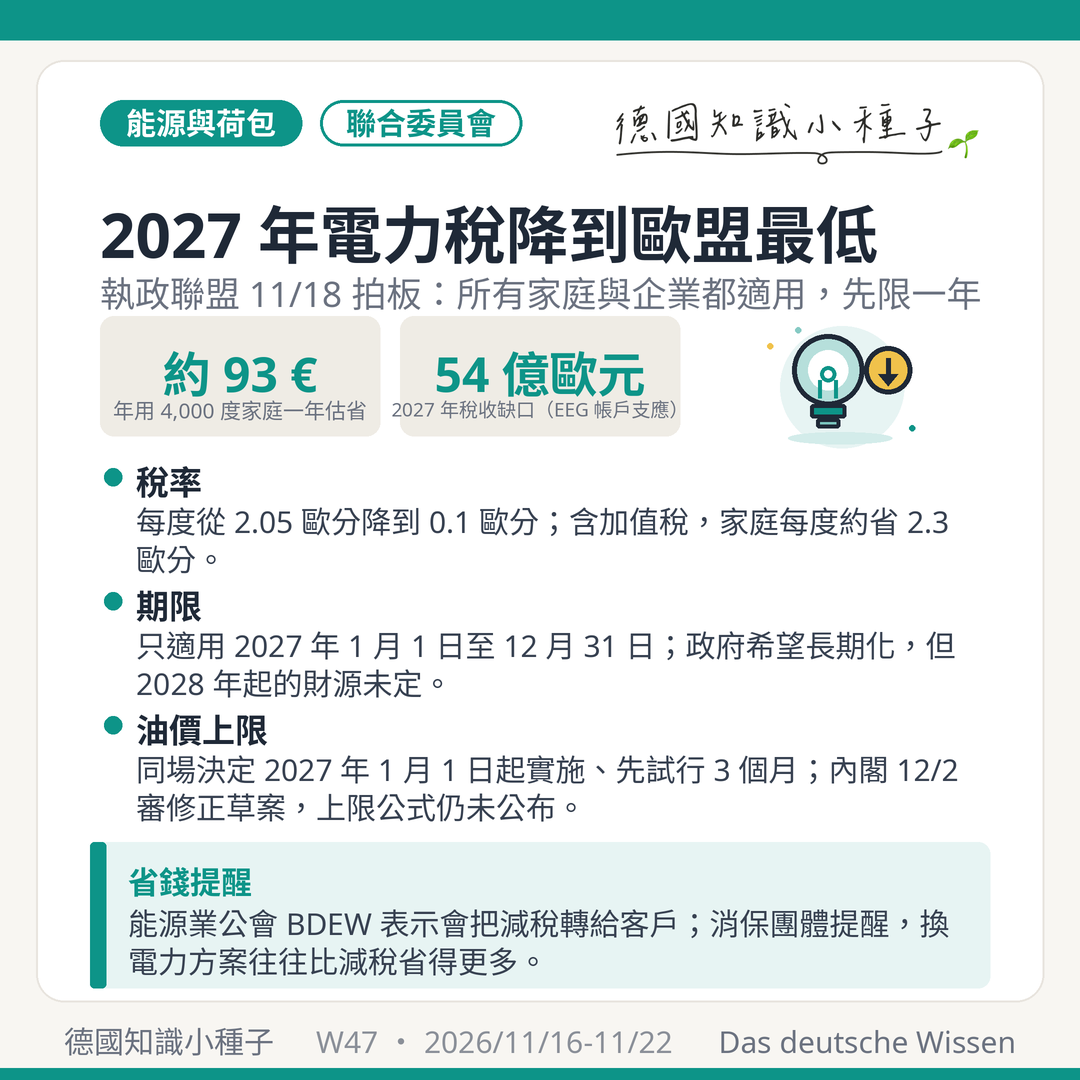
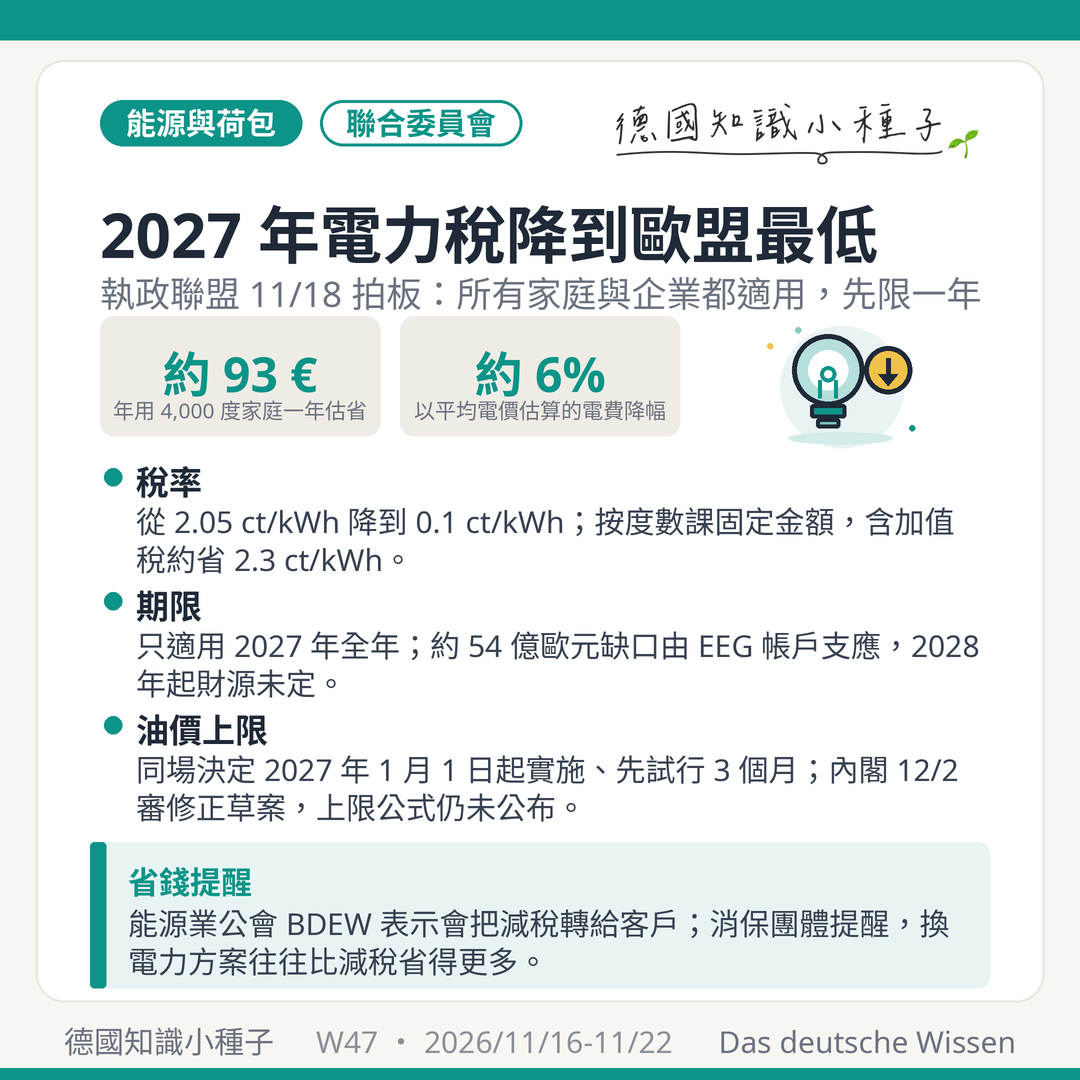
W47 電力稅題：單位改用 ct/kWh，加上以平均電價估算的電費降幅（約 6%）
- 「歐分」一律改寫為 ct/kWh（圖卡、data.js、FB／IG／Threads）
- 補充電力稅為從量稅：每度固定省 2.3 ct/kWh，與電價高低無關
- 以 BDEW 2026 年 10 月平均家庭電價 37.3 ct/kWh 估算電費約少 6%，並附 BDEW 來源
- 圖卡 1 stats 第二格改為「約 6%」，54 億歐元缺口移入 bullet；重產圖卡並重建靜態頁

Claude-Session: https://claude.ai/code/session_01KGMziPhZJ1M5nBAqmjDgqh

Changed region(s): [[0.1222, 0.4583, 0.8861, 0.55], [0.1222, 0.5806, 0.9167, 0.6417], [0.3667, 0.3056, 0.6417, 0.3972]]

diff --git a/posts/weekly-digest.html b/posts/weekly-digest.html
@@ -6,13 +6,13 @@
 <meta name="viewport" content="width=device-width, initial-scale=1.0" />
 <meta name="referrer" content="strict-origin-when-cross-origin" />
 <title>德國知識小種子週報精選 | 德國知識小種子</title>
-<meta name="description" content="先看荷包：執政聯盟 11 月 18 日在聯合委員會拍板，2027 年把電力稅降到歐盟最低標準，所有家庭與企業每度從 2.05 歐分降到 0.1 歐分，年用 4,000 度的家庭一年估省約 93 €，但只先保證一年；油價上限也確定 2027 年 1 月 1 日起試行 3 個月。同一天內閣通過勞動法套案，無理由定期契約最長" />
+<meta name="description" content="先看荷包：執政聯盟 11 月 18 日在聯合委員會拍板，2027 年把電力稅降到歐盟最低標準，所有家庭與企業從 2.05 ct/kWh 降到 0.1 ct/kWh，以平均電價估算電費約少 6%，年用 4,000 度的家庭一年估省約 93 €，但只先保證一年；油價上限也確定 2027 年 1 月 1 日起試行 3 個月。" />
 <meta name="robots" content="index, follow" />
 <link rel="canonical" href="https://taiwanese-in-germany.com/posts/weekly-digest.html" />
 <meta property="og:type" content="article" />
 <meta property="og:site_name" content="德國知識小種子 Das deutsche Wissen" />
 <meta property="og:title" content="德國知識小種子週報精選 | 德國知識小種子" />
-<meta property="og:description" content="先看荷包：執政聯盟 11 月 18 日在聯合委員會拍板，2027 年把電力稅降到歐盟最低標準，所有家庭與企業每度從 2.05 歐分降到 0.1 歐分，年用 4,000 度的家庭一年估省約 93 €，但只先保證一年；油價上限也確定 2027 年 1 月 1 日起試行 3 個月。同一天內閣通過勞動法套案，無理由定期契約最長" />
+<meta property="og:description" content="先看荷包：執政聯盟 11 月 18 日在聯合委員會拍板，2027 年把電力稅降到歐盟最低標準，所有家庭與企業從 2.05 ct/kWh 降到 0.1 ct/kWh，以平均電價估算電費約少 6%，年用 4,000 度的家庭一年估省約 93 €，但只先保證一年；油價上限也確定 2027 年 1 月 1 日起試行 3 個月。" />
 <meta property="og:url" content="https://taiwanese-in-germany.com/posts/weekly-digest.html" />
 <meta property="og:image" content="https://taiwanese-in-germany.com/assets/images/2026/weekly/W47_圖卡1_電力稅降到歐盟最低.png" />
 <meta property="og:locale" content="zh_TW" />
@@ -23,9 +23,9 @@
 <meta property="article:tag" content="時事" />
 <meta name="twitter:card" content="summary_large_image" />
 <meta name="twitter:title" content="德國知識小種子週報精選 | 德國知識小種子" />
-<meta name="twitter:description" content="先看荷包：執政聯盟 11 月 18 日在聯合委員會拍板，2027 年把電力稅降到歐盟最低標準，所有家庭與企業每度從 2.05 歐分降到 0.1 歐分，年用 4,000 度的家庭一年估省約 93 €，但只先保證一年；油價上限也確定 2027 年 1 月 1 日起試行 3 個月。同一天內閣通過勞動法套案，無理由定期契約最長" />
+<meta name="twitter:description" content="先看荷包：執政聯盟 11 月 18 日在聯合委員會拍板，2027 年把電力稅降到歐盟最低標準，所有家庭與企業從 2.05 ct/kWh 降到 0.1 ct/kWh，以平均電價估算電費約少 6%，年用 4,000 度的家庭一年估省約 93 €，但只先保證一年；油價上限也確定 2027 年 1 月 1 日起試行 3 個月。" />
 <meta name="twitter:image" content="https://taiwanese-in-germany.com/assets/images/2026/weekly/W47_圖卡1_電力稅降到歐盟最低.png" />
-<script type="application/ld+json">{"@context":"https://schema.org","@type":"BlogPosting","headline":"德國知識小種子週報精選","description":"先看荷包：執政聯盟 11 月 18 日在聯合委員會拍板，2027 年把電力稅降到歐盟最低標準，所有家庭與企業每度從 2.05 歐分降到 0.1 歐分，年用 4,000 度的家庭一年估省約 93 €，但只先保證一年；油價上限也確定 2027 年 1 月 1 日起試行 3 個月。同一天內閣通過勞動法套案，無理由定期契約最長","image":"https://taiwanese-in-germany.com/assets/images/2026/weekly/W47_圖卡1_電力稅降到歐盟最低.png","url":"https://taiwanese-in-germany.com/posts/weekly-digest.html","datePublished":"2026-11-22","dateModified":"2026-11-22","author":{"@type":"Person","name":"德國知識小種子","url":"https://taiwanese-in-germany.com"},"publisher":{"@type":"Organization","name":"德國知識小種子 Das deutsche Wissen","url":"https://taiwanese-in-germany.com","logo":{"@type":"ImageObject","url":"https://taiwanese-in-germany.com/assets/logo.png"}},"mainEntityOfPage":{"@type":"WebPage","@id":"https://taiwanese-in-germany.com/posts/weekly-digest.html"},"inLanguage":"zh-TW","keywords":"週報, 德國政策, 時事"}</script>
+<script type="application/ld+json">{"@context":"https://schema.org","@type":"BlogPosting","headline":"德國知識小種子週報精選","description":"先看荷包：執政聯盟 11 月 18 日在聯合委員會拍板，2027 年把電力稅降到歐盟最低標準，所有家庭與企業從 2.05 ct/kWh 降到 0.1 ct/kWh，以平均電價估算電費約少 6%，年用 4,000 度的家庭一年估省約 93 €，但只先保證一年；油價上限也確定 2027 年 1 月 1 日起試行 3 個月。","image":"https://taiwanese-in-germany.com/assets/images/2026/weekly/W47_圖卡1_電力稅降到歐盟最低.png","url":"https://taiwanese-in-germany.com/posts/weekly-digest.html","datePublished":"2026-11-22","dateModified":"2026-11-22","author":{"@type":"Person","name":"德國知識小種子","url":"https://taiwanese-in-germany.com"},"publisher":{"@type":"Organization","name":"德國知識小種子 Das deutsche Wissen","url":"https://taiwanese-in-germany.com","logo":{"@type":"ImageObject","url":"https://taiwanese-in-germany.com/assets/logo.png"}},"mainEntityOfPage":{"@type":"WebPage","@id":"https://taiwanese-in-germany.com/posts/weekly-digest.html"},"inLanguage":"zh-TW","keywords":"週報, 德國政策, 時事"}</script>
 <script type="application/ld+json">{"@context":"https://schema.org","@type":"BreadcrumbList","itemListElement":[{"@type":"ListItem","position":1,"name":"首頁","item":"https://taiwanese-in-germany.com/"},{"@type":"ListItem","position":2,"name":"德國時事","item":"https://taiwanese-in-germany.com/category.html?cat=%E5%BE%B7%E5%9C%8B%E6%99%82%E4%BA%8B"},{"@type":"ListItem","position":3,"name":"德國知識小種子週報精選","item":"https://taiwanese-in-germany.com/posts/weekly-digest.html"}]}</script>
 <link rel="stylesheet" href="/css/style.css" />
 <link rel="alternate" type="application/rss+xml" title="德國知識小種子 RSS" href="/feed.xml" />
@@ -132,14 +132,14 @@
     <div class="post-header__meta">
       <span>2026年11月22日 發布</span>
       <span class="post-header__sep">·</span>
-      <span>578 分鐘閱讀</span>
+      <span>580 分鐘閱讀</span>
     </div>
     <hr class="post-header__divider" />
   </header>
   <article class="post-content"><nav class="post-toc" aria-label="本篇目錄">
   <p class="post-toc__title">快速跳轉</p>
   <ul>
-    <li><a href="#nov16-22">11月16日–22日：2027 年電力稅降到歐盟最低（11/18 聯合委員會拍板，所有家庭每度從 2.05 歐分降到 0.1 歐分、先限一年，4,000 度家庭估省約 93 €；油價上限 2027/1/1 起試行 3 個月）、無理由定期契約最長延到 4 年（內閣 11/18 通過勞動法套案，可續約 6 次、只適用 2030 年底前簽訂的契約，年薪逾約 18 萬歐元者解僱保護放寬）、年金 2027 年 7 月估漲 4.1%（退休保險報告過內閣，保費率 2027 年維持 18.6%、2028 年估升到 19.7–19.8%）、金屬業全天罷工開打而福斯 11/24 開談（ZF Koblenz 廠 11/19 夜班起停工，福斯 10 項企業協約 12/31 失效、涵蓋約 13 萬人）、政府要德鐵 2029 年準點率回到七成（DB InfraGO 履約協議草案，10 月長途準點率 56.2%、71 項指標與主管獎金掛鉤）</a></li>
+    <li><a href="#nov16-22">11月16日–22日：2027 年電力稅降到歐盟最低（11/18 聯合委員會拍板，所有家庭從 2.05 ct/kWh 降到 0.1 ct/kWh、先限一年，電費約少 6%、4,000 度家庭估省約 93 €；油價上限 2027/1/1 起試行 3 個月）、無理由定期契約最長延到 4 年（內閣 11/18 通過勞動法套案，可續約 6 次、只適用 2030 年底前簽訂的契約，年薪逾約 18 萬歐元者解僱保護放寬）、年金 2027 年 7 月估漲 4.1%（退休保險報告過內閣，保費率 2027 年維持 18.6%、2028 年估升到 19.7–19.8%）、金屬業全天罷工開打而福斯 11/24 開談（ZF Koblenz 廠 11/19 夜班起停工，福斯 10 項企業協約 12/31 失效、涵蓋約 13 萬人）、政府要德鐵 2029 年準點率回到七成（DB InfraGO 履約協議草案，10 月長途準點率 56.2%、71 項指標與主管獎金掛鉤）</a></li>
     <li><a href="#nov9-15">11月9日–15日：政府經濟顧問建議取消「63 歲退休」（經濟專家委員會年度報告，同時把 2026 年成長預測從 0.5% 上修至 1.3%、2027 年 1.0%，並建議撤回母親年金擴大）、瓦斯費 2027 年 10 月起多收儲備附加費（國家天然氣戰略儲備過內閣、目標 24 TWh，一般家庭每年估多付約 4–7 €）、車廠同步縮手（賓士凍結在德投資並不排除關閉兩座廠、福斯喊停 Gamechanger 且累計減少職位逾 47,000 個、Audi 啟動壞天氣條款重談、BMW 二度下修財測）、IG Metall 決議發動 24 小時警告罷工（總部 11/12 全票通過、2018 年以來首次）、國防軍暗數研究（72% 女性軍人曾遭言語性騷擾、34 項行動計畫）</a></li>
     <li><a href="#nov2-8">11月2日–8日：住址登記全面上網（內閣 11/4 通過行政命令、預計 12/1 生效，所有登記機關須開放線上遷入與遷居登記，已接入約 3,800 個機關、需 BundID 與線上身分功能）、Schaeffler 再減 2,660 個職位並關閉德國四處據點（歐洲共減 3,460 個職位、原則上不做經營性解僱、2030 年起每年省 3 億歐元、董事會自減 10% 薪資，汽車業就業 69.15 萬人創 2005 年來新低）、油價上限法草案（須連三週高於其他歐盟國家平均 5 個百分點以上才啟動、每次最長 3 個月，bft 與 DGB 都批評；燃油稅減免 12/31 到期）、駕照改革通過（平均約 3,400 €，理論課可線上、特殊路況課不再規定 12 趟、親友可陪練，主要新規 2027/7/1 生效）、西巴爾幹工作名額減半（每年 5 萬降到 2.5 萬、2027 年起適用，營建業估少約 9,000 人）</a></li>
     <li><a href="#oct26-nov1">10月26日–11月1日：十一月新制（11/1 起歐盟外小包裹在 3 € 定額關稅之外每種商品再加收 2 € 處理費、11/20 起「先買後付」與 200 € 以下小額貸款須審查信用、德鐵家庭票常態化最多 5 人 IC／ICE 來回 99.99 €、汽車保險換約解約信須 11/30 前送達）、金屬電機業 11/1 起可發動警告性罷工（約 370 萬名員工，資方 10/27 首度出價 2027 年一次性給付與 2028 年 7 月調薪 1.3%，IG Metall 要求 12 個月加薪 5%）、賓士下修財測（第三季中國銷量年減 31%、轎車利潤率目標從 3–5% 降到 2–3%，12 月起再以資遣方案縮減數千個行政職位）、德日聯合聲明重申台海和平穩定（Merz 10/26–30 訪新加坡、日本、南韓，與高市早苗簽署關鍵原物料意向書；Steinmeier 同週國事訪問中國、促習近平縮減貿易順差）、景氣回溫（十月通膨初值降到 2.8%、第三季 GDP 季增 0.2%、ifo 景氣指數連升第六個月到 90.2 點）、核廢料最終處置場候選範圍縮到國土 5% 以下（BGE 10/27 公布、5 個邦完全出局、2027 年底提出候選區域）</a></li>
@@ -175,18 +175,19 @@
   </ul>
 </nav>
 
-<h2 id="nov16-22">11月16日–22日：2027 年電力稅降到歐盟最低（執政聯盟 11/18 聯合委員會拍板，所有家庭與企業每度從 2.05 歐分降到 0.1 歐分、先限 2027 年一年，年用 4,000 度家庭估省約 93 €，54 億歐元缺口由 EEG 帳戶支應；油價上限同步定在 2027 年 1 月 1 日起試行 3 個月）、無理由定期契約最長延到 4 年（內閣 11/18 通過勞動法套案，期限內可續約 6 次、只適用 2030 年底前簽訂的契約，年薪逾約 18 萬歐元者解僱保護放寬）、年金 2027 年 7 月估漲 4.1%（2026 年退休保險報告 11/18 過內閣，保費率 2027 年維持 18.6%、2028 年估升到 19.7–19.8%）、金屬業全天罷工開打而福斯 11/24 開談（ZF Koblenz 廠 11/19 夜班起停工 24 小時，福斯終止的 10 項企業協約 12/31 失效、涵蓋約 13 萬名員工）、政府要德鐵 2029 年準點率回到七成（交通部長 Bilger 11/18 提出路網公司 DB InfraGO 履約協議草案，10 月長途列車準點率僅 56.2%、主管獎金掛鉤 71 項指標）</h2>
+<h2 id="nov16-22">11月16日–22日：2027 年電力稅降到歐盟最低（執政聯盟 11/18 聯合委員會拍板，所有家庭與企業從 2.05 ct/kWh 降到 0.1 ct/kWh、先限 2027 年一年，以平均電價估算電費約少 6%、年用 4,000 度家庭估省約 93 €，54 億歐元缺口由 EEG 帳戶支應；油價上限同步定在 2027 年 1 月 1 日起試行 3 個月）、無理由定期契約最長延到 4 年（內閣 11/18 通過勞動法套案，期限內可續約 6 次、只適用 2030 年底前簽訂的契約，年薪逾約 18 萬歐元者解僱保護放寬）、年金 2027 年 7 月估漲 4.1%（2026 年退休保險報告 11/18 過內閣，保費率 2027 年維持 18.6%、2028 年估升到 19.7–19.8%）、金屬業全天罷工開打而福斯 11/24 開談（ZF Koblenz 廠 11/19 夜班起停工 24 小時，福斯終止的 10 項企業協約 12/31 失效、涵蓋約 13 萬名員工）、政府要德鐵 2029 年準點率回到七成（交通部長 Bilger 11/18 提出路網公司 DB InfraGO 履約協議草案，10 月長途列車準點率僅 56.2%、主管獎金掛鉤 71 項指標）</h2>
 <p>這週的焦點集中在 <strong>11 月 18 日</strong>這一天：執政的聯盟黨（CDU/CSU）與 SPD 高層在<strong>聯合委員會（Koalitionsausschuss）</strong>徹夜協商八小時以上，決定 2027 年把<strong>電力稅降到歐盟最低標準</strong>、所有家庭都適用，並敲定油價上限的上路日期；同一天上午，聯邦內閣也通過<strong>勞動法套案</strong>（無理由定期契約最長延到 4 年）與<strong>2026 年退休保險報告</strong>（年金明年 7 月估漲 4.1%）。<strong>汽車與金屬業</strong>方面，IG Metall 的 24 小時警告罷工從 11 月 19 日晚間正式開打，福斯（Volkswagen）企業協約的談判也將在 11 月 24 日登場。最後，交通部提出與德鐵路網公司的<strong>履約協議草案</strong>，要求 2029 年長途列車準點率回到七成。</p>
 
-<img src="/assets/images/2026/weekly/W47_圖卡1_電力稅降到歐盟最低.png" alt="德國執政聯盟聯合委員會Koalitionsausschuss 2026年11月18日決議 電力稅Stromsteuer 2027年1月1日至12月31日降到歐盟最低標準 每度從2.05歐分降到0.1歐分 含加值稅家庭每度約省2.3歐分 Verivox估年用4000度家庭每月省約7.75歐元一年約93歐元 稅收缺口54億歐元由再生能源EEG帳戶盈餘支應 油價上限Spritpreisdeckel 2027年1月1日起試行3個月 內閣12月2日審修正草案 能源業公會BDEW表示轉嫁客戶">
+<img src="/assets/images/2026/weekly/W47_圖卡1_電力稅降到歐盟最低.png" alt="德國執政聯盟聯合委員會Koalitionsausschuss 2026年11月18日決議 電力稅Stromsteuer 2027年1月1日至12月31日降到歐盟最低標準 從2.05 ct/kWh降到0.1 ct/kWh 含加值稅家庭約省2.3 ct/kWh 以BDEW 2026年平均家庭電價37.3 ct/kWh估算電費約少6% Verivox估年用4000度家庭每月省約7.75歐元一年約93歐元 稅收缺口54億歐元由再生能源EEG帳戶盈餘支應 油價上限Spritpreisdeckel 2027年1月1日起試行3個月 內閣12月2日審修正草案 能源業公會BDEW表示轉嫁客戶">
 <h3>2027 年電力稅降到歐盟最低：所有家庭適用，4,000 度家庭一年估省約 93 €</h3>
-<p><strong>決議內容：</strong>聯盟黨與 SPD 高層 <strong>11 月 17 日晚間至 18 日凌晨</strong>在聯合委員會協商八個多小時，結論是 <strong>2027 年 1 月 1 日至 12 月 31 日</strong>，把<strong>電力稅（Stromsteuer）</strong>降到歐盟允許的最低標準：私人家庭與目前尚未享有優惠的企業，稅率從<strong>每度 2.05 歐分降到 0.1 歐分</strong>。製造業與農林業早在 2026 年就已適用低稅率，這次等於把優惠擴大到所有用電戶。據報導，這是總理 Merz 力推的結果；聯合政府 2025 年組閣時曾承諾為所有人降電力稅，後來因財源不足只先給企業，被批評「跳票」。</p>
-<p><strong>能省多少：</strong>依《每日鏡報》（Tagesspiegel）試算，家庭每度省 1.95 歐分，<strong>含 19% 加值稅約省 2.3 歐分</strong>；年用 2,500 度的兩人家庭一年約省 60 €。比價平台 Verivox 估計，年用 <strong>4,000 度</strong>的家庭若業者全額轉嫁，<strong>每月約省 7.75 €、一年約 93 €</strong>。能源與水業公會 <strong>BDEW</strong> 已表示會把減稅轉給客戶。</p>
+<p><strong>決議內容：</strong>聯盟黨與 SPD 高層 <strong>11 月 17 日晚間至 18 日凌晨</strong>在聯合委員會協商八個多小時，結論是 <strong>2027 年 1 月 1 日至 12 月 31 日</strong>，把<strong>電力稅（Stromsteuer）</strong>降到歐盟允許的最低標準：私人家庭與目前尚未享有優惠的企業，稅率從 <strong>2.05 ct/kWh 降到 0.1 ct/kWh</strong>。製造業與農林業早在 2026 年就已適用低稅率，這次等於把優惠擴大到所有用電戶。據報導，這是總理 Merz 力推的結果；聯合政府 2025 年組閣時曾承諾為所有人降電力稅，後來因財源不足只先給企業，被批評「跳票」。</p>
+<p><strong>能省多少：</strong>依《每日鏡報》（Tagesspiegel）試算，家庭省 1.95 ct/kWh，<strong>含 19% 加值稅約省 2.3 ct/kWh</strong>；年用 2,500 度的兩人家庭一年約省 60 €。比價平台 Verivox 估計，年用 <strong>4,000 度</strong>的家庭若業者全額轉嫁，<strong>每月約省 7.75 €、一年約 93 €</strong>。能源與水業公會 <strong>BDEW</strong> 已表示會把減稅轉給客戶。</p>
+<p><strong>換算成比例：</strong>電力稅是<strong>按度數課固定金額</strong>（從量稅），不是照電價抽百分比，所以不論電價高低，每度省下的都是同樣的 2.3 ct/kWh。依 BDEW 2026 年 10 月的電價分析，家庭平均電價為 <strong>37.3 ct/kWh</strong>（以年用 3,500 度計，已含基本費攤提），換算下來<strong>電費約少 6%</strong>（2.3 ÷ 37.3 ≈ 6.2%）；年用 3,500 度的家庭，一年電費約 1,306 €，可省約 81 €。電價越高的方案，降幅比例越小，例如基本供應（Grundversorgung）每度約 40 ct/kWh 的話約少 5.7%；想知道自己能省幾 %，用 2.3 除以帳單上的每度單價（Arbeitspreis 加上基本費攤提）即可。</p>
 <p><strong>錢從哪來：</strong>降稅造成 2027 年約 <strong>54 億歐元</strong>的稅收缺口，執政聯盟打算以再生能源補助帳戶（<strong>EEG 帳戶</strong>）預期的盈餘支應；若不夠，再另訂撙節方案。聯邦議院預算委員會下週將召開特別會議。執政聯盟表示希望長期降稅，但 <strong>2028 年以後的財源仍未定</strong>，法案也還沒送進國會。</p>
 <p><strong>油價上限同步定案：</strong>本站 <a href="#nov2-8">W45</a> 報導過的<strong>油價上限（Spritpreisdeckel）</strong>，這次決定 <strong>2027 年 1 月 1 日起</strong>實施、先試行 <strong>3 個月</strong>，可延長；內閣將在 <strong>12 月 2 日</strong>通過修正後的法案與行政命令。政府參考比利時與盧森堡的模式，以法定上限限制業者的利潤空間，而非訂死單一價格，但具體上限公式至今還沒公布。</p>
 <p><strong>各方觀點：</strong>聯邦消費者中心總會（vzbv）主席 Ramona Pop 肯定執政聯盟兌現承諾；綠黨（Grüne）黨主席 Franziska Brantner 則批評只降一年「沒有給出規劃上的確定性」，綠黨聯邦議院黨團共同主席 Britta Haßelmann 稱這是「替總理保住面子的權宜之計」；綠黨與左翼黨（Die Linke）都認為油價上限不夠，主張改向石油公司課徵超額利潤稅。SPD 預算專家 Thorsten Rudolph 稱減輕負擔是好事，但希望再大膽一點。</p>
 <p><strong>省錢提醒：</strong>減稅一年約省幾十到一百歐元；消保團體提醒，<strong>比價換約</strong>往往省得更多。許多基本供應業者明年 1 月調價，收到調價通知時可行使特別終止權改換方案。</p>
-<p class="post-sources">📚 來源：<a href="https://www.handelsblatt.com/politik/deutschland/koalitionsausschuss-stromsteuer-senkung-und-spritpreisdeckel-kommen-2027/100270780.html" target="_blank" rel="noopener noreferrer">Handelsblatt：Stromsteuer-Senkung und Spritpreisdeckel kommen 2027</a> · <a href="https://www.tagesspiegel.de/politik/strom-gunstiger-sprit-nicht-noch-teurer-wie-sich-die-einigung-der-koalition-finanziell-auswirkt-16297250.html" target="_blank" rel="noopener noreferrer">Tagesspiegel：Wer von der Einigung der Koalition finanziell profitiert</a> · <a href="https://www.t-online.de/nachrichten/deutschland/innenpolitik/id_101534002/stromsteuer-koalition-beschliesst-senkung-mit-einem-haken.html" target="_blank" rel="noopener noreferrer">t-online：Koalition beschließt Senkung – mit einem Haken</a> · <a href="https://www.t-online.de/nachrichten/deutschland/innenpolitik/id_101534526/stromsteuer-und-spritpreisdeckel-streit-in-der-koalition-trotz-einigung.html" target="_blank" rel="noopener noreferrer">t-online：Streit in der Koalition trotz Einigung</a> · <a href="https://taz.de/Einigung-im-Koalitionsausschuss/!6231102/" target="_blank" rel="noopener noreferrer">taz：Linke Tasche, rechte Tasche</a> · <a href="https://www.tagesspiegel.de/politik/keine-entlastung-bei-stromsteuer-kritiker-werfen-schwarz-rot-wortbruch-vor-13917301.html" target="_blank" rel="noopener noreferrer">Tagesspiegel：Kritiker werfen Schwarz-Rot „Wortbruch" vor（2025）</a> · <a href="https://www.adac.de/verkehr/tanken-kraftstoff-antrieb/benzin-und-diesel/spritpreisdeckel/" target="_blank" rel="noopener noreferrer">ADAC：Spritpreisdeckel ab 2027</a></p>
+<p class="post-sources">📚 來源：<a href="https://www.handelsblatt.com/politik/deutschland/koalitionsausschuss-stromsteuer-senkung-und-spritpreisdeckel-kommen-2027/100270780.html" target="_blank" rel="noopener noreferrer">Handelsblatt：Stromsteuer-Senkung und Spritpreisdeckel kommen 2027</a> · <a href="https://www.tagesspiegel.de/politik/strom-gunstiger-sprit-nicht-noch-teurer-wie-sich-die-einigung-der-koalition-finanziell-auswirkt-16297250.html" target="_blank" rel="noopener noreferrer">Tagesspiegel：Wer von der Einigung der Koalition finanziell profitiert</a> · <a href="https://www.t-online.de/nachrichten/deutschland/innenpolitik/id_101534002/stromsteuer-koalition-beschliesst-senkung-mit-einem-haken.html" target="_blank" rel="noopener noreferrer">t-online：Koalition beschließt Senkung – mit einem Haken</a> · <a href="https://www.t-online.de/nachrichten/deutschland/innenpolitik/id_101534526/stromsteuer-und-spritpreisdeckel-streit-in-der-koalition-trotz-einigung.html" target="_blank" rel="noopener noreferrer">t-online：Streit in der Koalition trotz Einigung</a> · <a href="https://taz.de/Einigung-im-Koalitionsausschuss/!6231102/" target="_blank" rel="noopener noreferrer">taz：Linke Tasche, rechte Tasche</a> · <a href="https://www.tagesspiegel.de/politik/keine-entlastung-bei-stromsteuer-kritiker-werfen-schwarz-rot-wortbruch-vor-13917301.html" target="_blank" rel="noopener noreferrer">Tagesspiegel：Kritiker werfen Schwarz-Rot „Wortbruch" vor（2025）</a> · <a href="https://www.adac.de/verkehr/tanken-kraftstoff-antrieb/benzin-und-diesel/spritpreisdeckel/" target="_blank" rel="noopener noreferrer">ADAC：Spritpreisdeckel ab 2027</a> · <a href="https://www.bdew.de/presse/pressemappen/strompreis/" target="_blank" rel="noopener noreferrer">BDEW：Pressematerialien Strompreis（2026 年平均家庭電價）</a></p>
 
 <img src="/assets/images/2026/weekly/W47_圖卡2_定期契約延到四年.png" alt="德國聯邦內閣2026年11月18日通過勞動部長Alexander Schweitzer勞動法套案Arbeitsrechtspaket 無理由定期契約sachgrundlose Befristung上限從2年延長到4年 期限內續約次數從3次增為6次 只適用2030年12月31日前簽訂的契約 前僱禁令Anschlussverbot放寬一次 定期約可用文字形式Textform 年薪超過退休保險投保上限1.75倍約18萬歐元者解僱保護放寬 法院可判資遣Abfindung終止 約0.27%受僱者 雇主聯合會BDA Kampeter正面訊號 DGB Piel ver.di Werneke批評">
 <h3>無理由定期契約最長延到 4 年：內閣通過勞動法套案，高薪者解僱保護同步放寬</h3>

diff --git a/js/data.js b/js/data.js
@@ -1516,14 +1516,14 @@ const POSTS = [
     date: '2026-11-22',
     categories: ['德國時事'],
     tags: ['週報', '德國政策', '時事'],
-    excerpt: '先看荷包：執政聯盟 11 月 18 日在聯合委員會拍板，2027 年把電力稅降到歐盟最低標準，所有家庭與企業每度從 2.05 歐分降到 0.1 歐分，年用 4,000 度的家庭一年估省約 93 €，但只先保證一年；油價上限也確定 2027 年 1 月 1 日起試行 3 個月。同一天內閣通過勞動法套案，無理由定期契約最長延到 4 年、可續約 6 次，高薪者解僱保護同步放寬；2026 年退休保險報告也過內閣，年金明年 7 月估漲 4.1%，保費率 2027 年維持 18.6%、2028 年恐升到近 19.8%。汽車與金屬業方面，IG Metall 的 24 小時警告罷工 11 月 19 日晚間從 ZF Koblenz 廠開打，福斯（Volkswagen）企業協約 11 月 24 日在 Emden 開談、終止的 10 項協約 12 月 31 日失效；交通部長 Bilger 則提出德鐵路網公司履約協議草案，要求 2029 年長途列車準點率從 10 月的 56.2% 回到七成。',
+    excerpt: '先看荷包：執政聯盟 11 月 18 日在聯合委員會拍板，2027 年把電力稅降到歐盟最低標準，所有家庭與企業從 2.05 ct/kWh 降到 0.1 ct/kWh，以平均電價估算電費約少 6%，年用 4,000 度的家庭一年估省約 93 €，但只先保證一年；油價上限也確定 2027 年 1 月 1 日起試行 3 個月。同一天內閣通過勞動法套案，無理由定期契約最長延到 4 年、可續約 6 次，高薪者解僱保護同步放寬；2026 年退休保險報告也過內閣，年金明年 7 月估漲 4.1%，保費率 2027 年維持 18.6%、2028 年恐升到近 19.8%。汽車與金屬業方面，IG Metall 的 24 小時警告罷工 11 月 19 日晚間從 ZF Koblenz 廠開打，福斯（Volkswagen）企業協約 11 月 24 日在 Emden 開談、終止的 10 項協約 12 月 31 日失效；交通部長 Bilger 則提出德鐵路網公司履約協議草案，要求 2029 年長途列車準點率從 10 月的 56.2% 回到七成。',
 
     emoji: '🌱',
     content: `
 <nav class="post-toc" aria-label="本篇目錄">
   <p class="post-toc__title">快速跳轉</p>
   <ul>
-    <li><a href="#nov16-22">11月16日–22日：2027 年電力稅降到歐盟最低（11/18 聯合委員會拍板，所有家庭每度從 2.05 歐分降到 0.1 歐分、先限一年，4,000 度家庭估省約 93 €；油價上限 2027/1/1 起試行 3 個月）、無理由定期契約最長延到 4 年（內閣 11/18 通過勞動法套案，可續約 6 次、只適用 2030 年底前簽訂的契約，年薪逾約 18 萬歐元者解僱保護放寬）、年金 2027 年 7 月估漲 4.1%（退休保險報告過內閣，保費率 2027 年維持 18.6%、2028 年估升到 19.7–19.8%）、金屬業全天罷工開打而福斯 11/24 開談（ZF Koblenz 廠 11/19 夜班起停工，福斯 10 項企業協約 12/31 失效、涵蓋約 13 萬人）、政府要德鐵 2029 年準點率回到七成（DB InfraGO 履約協議草案，10 月長途準點率 56.2%、71 項指標與主管獎金掛鉤）</a></li>
+    <li><a href="#nov16-22">11月16日–22日：2027 年電力稅降到歐盟最低（11/18 聯合委員會拍板，所有家庭從 2.05 ct/kWh 降到 0.1 ct/kWh、先限一年，電費約少 6%、4,000 度家庭估省約 93 €；油價上限 2027/1/1 起試行 3 個月）、無理由定期契約最長延到 4 年（內閣 11/18 通過勞動法套案，可續約 6 次、只適用 2030 年底前簽訂的契約，年薪逾約 18 萬歐元者解僱保護放寬）、年金 2027 年 7 月估漲 4.1%（退休保險報告過內閣，保費率 2027 年維持 18.6%、2028 年估升到 19.7–19.8%）、金屬業全天罷工開打而福斯 11/24 開談（ZF Koblenz 廠 11/19 夜班起停工，福斯 10 項企業協約 12/31 失效、涵蓋約 13 萬人）、政府要德鐵 2029 年準點率回到七成（DB InfraGO 履約協議草案，10 月長途準點率 56.2%、71 項指標與主管獎金掛鉤）</a></li>
     <li><a href="#nov9-15">11月9日–15日：政府經濟顧問建議取消「63 歲退休」（經濟專家委員會年度報告，同時把 2026 年成長預測從 0.5% 上修至 1.3%、2027 年 1.0%，並建議撤回母親年金擴大）、瓦斯費 2027 年 10 月起多收儲備附加費（國家天然氣戰略儲備過內閣、目標 24 TWh，一般家庭每年估多付約 4–7 €）、車廠同步縮手（賓士凍結在德投資並不排除關閉兩座廠、福斯喊停 Gamechanger 且累計減少職位逾 47,000 個、Audi 啟動壞天氣條款重談、BMW 二度下修財測）、IG Metall 決議發動 24 小時警告罷工（總部 11/12 全票通過、2018 年以來首次）、國防軍暗數研究（72% 女性軍人曾遭言語性騷擾、34 項行動計畫）</a></li>
     <li><a href="#nov2-8">11月2日–8日：住址登記全面上網（內閣 11/4 通過行政命令、預計 12/1 生效，所有登記機關須開放線上遷入與遷居登記，已接入約 3,800 個機關、需 BundID 與線上身分功能）、Schaeffler 再減 2,660 個職位並關閉德國四處據點（歐洲共減 3,460 個職位、原則上不做經營性解僱、2030 年起每年省 3 億歐元、董事會自減 10% 薪資，汽車業就業 69.15 萬人創 2005 年來新低）、油價上限法草案（須連三週高於其他歐盟國家平均 5 個百分點以上才啟動、每次最長 3 個月，bft 與 DGB 都批評；燃油稅減免 12/31 到期）、駕照改革通過（平均約 3,400 €，理論課可線上、特殊路況課不再規定 12 趟、親友可陪練，主要新規 2027/7/1 生效）、西巴爾幹工作名額減半（每年 5 萬降到 2.5 萬、2027 年起適用，營建業估少約 9,000 人）</a></li>
     <li><a href="#oct26-nov1">10月26日–11月1日：十一月新制（11/1 起歐盟外小包裹在 3 € 定額關稅之外每種商品再加收 2 € 處理費、11/20 起「先買後付」與 200 € 以下小額貸款須審查信用、德鐵家庭票常態化最多 5 人 IC／ICE 來回 99.99 €、汽車保險換約解約信須 11/30 前送達）、金屬電機業 11/1 起可發動警告性罷工（約 370 萬名員工，資方 10/27 首度出價 2027 年一次性給付與 2028 年 7 月調薪 1.3%，IG Metall 要求 12 個月加薪 5%）、賓士下修財測（第三季中國銷量年減 31%、轎車利潤率目標從 3–5% 降到 2–3%，12 月起再以資遣方案縮減數千個行政職位）、德日聯合聲明重申台海和平穩定（Merz 10/26–30 訪新加坡、日本、南韓，與高市早苗簽署關鍵原物料意向書；Steinmeier 同週國事訪問中國、促習近平縮減貿易順差）、景氣回溫（十月通膨初值降到 2.8%、第三季 GDP 季增 0.2%、ifo 景氣指數連升第六個月到 90.2 點）、核廢料最終處置場候選範圍縮到國土 5% 以下（BGE 10/27 公布、5 個邦完全出局、2027 年底提出候選區域）</a></li>
@@ -1559,18 +1559,19 @@ const POSTS = [
   </ul>
 </nav>
 
-<h2 id="nov16-22">11月16日–22日：2027 年電力稅降到歐盟最低（執政聯盟 11/18 聯合委員會拍板，所有家庭與企業每度從 2.05 歐分降到 0.1 歐分、先限 2027 年一年，年用 4,000 度家庭估省約 93 €，54 億歐元缺口由 EEG 帳戶支應；油價上限同步定在 2027 年 1 月 1 日起試行 3 個月）、無理由定期契約最長延到 4 年（內閣 11/18 通過勞動法套案，期限內可續約 6 次、只適用 2030 年底前簽訂的契約，年薪逾約 18 萬歐元者解僱保護放寬）、年金 2027 年 7 月估漲 4.1%（2026 年退休保險報告 11/18 過內閣，保費率 2027 年維持 18.6%、2028 年估升到 19.7–19.8%）、金屬業全天罷工開打而福斯 11/24 開談（ZF Koblenz 廠 11/19 夜班起停工 24 小時，福斯終止的 10 項企業協約 12/31 失效、涵蓋約 13 萬名員工）、政府要德鐵 2029 年準點率回到七成（交通部長 Bilger 11/18 提出路網公司 DB InfraGO 履約協議草案，10 月長途列車準點率僅 56.2%、主管獎金掛鉤 71 項指標）</h2>
+<h2 id="nov16-22">11月16日–22日：2027 年電力稅降到歐盟最低（執政聯盟 11/18 聯合委員會拍板，所有家庭與企業從 2.05 ct/kWh 降到 0.1 ct/kWh、先限 2027 年一年，以平均電價估算電費約少 6%、年用 4,000 度家庭估省約 93 €，54 億歐元缺口由 EEG 帳戶支應；油價上限同步定在 2027 年 1 月 1 日起試行 3 個月）、無理由定期契約最長延到 4 年（內閣 11/18 通過勞動法套案，期限內可續約 6 次、只適用 2030 年底前簽訂的契約，年薪逾約 18 萬歐元者解僱保護放寬）、年金 2027 年 7 月估漲 4.1%（2026 年退休保險報告 11/18 過內閣，保費率 2027 年維持 18.6%、2028 年估升到 19.7–19.8%）、金屬業全天罷工開打而福斯 11/24 開談（ZF Koblenz 廠 11/19 夜班起停工 24 小時，福斯終止的 10 項企業協約 12/31 失效、涵蓋約 13 萬名員工）、政府要德鐵 2029 年準點率回到七成（交通部長 Bilger 11/18 提出路網公司 DB InfraGO 履約協議草案，10 月長途列車準點率僅 56.2%、主管獎金掛鉤 71 項指標）</h2>
 <p>這週的焦點集中在 <strong>11 月 18 日</strong>這一天：執政的聯盟黨（CDU/CSU）與 SPD 高層在<strong>聯合委員會（Koalitionsausschuss）</strong>徹夜協商八小時以上，決定 2027 年把<strong>電力稅降到歐盟最低標準</strong>、所有家庭都適用，並敲定油價上限的上路日期；同一天上午，聯邦內閣也通過<strong>勞動法套案</strong>（無理由定期契約最長延到 4 年）與<strong>2026 年退休保險報告</strong>（年金明年 7 月估漲 4.1%）。<strong>汽車與金屬業</strong>方面，IG Metall 的 24 小時警告罷工從 11 月 19 日晚間正式開打，福斯（Volkswagen）企業協約的談判也將在 11 月 24 日登場。最後，交通部提出與德鐵路網公司的<strong>履約協議草案</strong>，要求 2029 年長途列車準點率回到七成。</p>
 
-<img src="assets/images/2026/weekly/W47_圖卡1_電力稅降到歐盟最低.png" alt="德國執政聯盟聯合委員會Koalitionsausschuss 2026年11月18日決議 電力稅Stromsteuer 2027年1月1日至12月31日降到歐盟最低標準 每度從2.05歐分降到0.1歐分 含加值稅家庭每度約省2.3歐分 Verivox估年用4000度家庭每月省約7.75歐元一年約93歐元 稅收缺口54億歐元由再生能源EEG帳戶盈餘支應 油價上限Spritpreisdeckel 2027年1月1日起試行3個月 內閣12月2日審修正草案 能源業公會BDEW表示轉嫁客戶">
+<img src="assets/images/2026/weekly/W47_圖卡1_電力稅降到歐盟最低.png" alt="德國執政聯盟聯合委員會Koalitionsausschuss 2026年11月18日決議 電力稅Stromsteuer 2027年1月1日至12月31日降到歐盟最低標準 從2.05 ct/kWh降到0.1 ct/kWh 含加值稅家庭約省2.3 ct/kWh 以BDEW 2026年平均家庭電價37.3 ct/kWh估算電費約少6% Verivox估年用4000度家庭每月省約7.75歐元一年約93歐元 稅收缺口54億歐元由再生能源EEG帳戶盈餘支應 油價上限Spritpreisdeckel 2027年1月1日起試行3個月 內閣12月2日審修正草案 能源業公會BDEW表示轉嫁客戶">
 <h3>2027 年電力稅降到歐盟最低：所有家庭適用，4,000 度家庭一年估省約 93 €</h3>
-<p><strong>決議內容：</strong>聯盟黨與 SPD 高層 <strong>11 月 17 日晚間至 18 日凌晨</strong>在聯合委員會協商八個多小時，結論是 <strong>2027 年 1 月 1 日至 12 月 31 日</strong>，把<strong>電力稅（Stromsteuer）</strong>降到歐盟允許的最低標準：私人家庭與目前尚未享有優惠的企業，稅率從<strong>每度 2.05 歐分降到 0.1 歐分</strong>。製造業與農林業早在 2026 年就已適用低稅率，這次等於把優惠擴大到所有用電戶。據報導，這是總理 Merz 力推的結果；聯合政府 2025 年組閣時曾承諾為所有人降電力稅，後來因財源不足只先給企業，被批評「跳票」。</p>
-<p><strong>能省多少：</strong>依《每日鏡報》（Tagesspiegel）試算，家庭每度省 1.95 歐分，<strong>含 19% 加值稅約省 2.3 歐分</strong>；年用 2,500 度的兩人家庭一年約省 60 €。比價平台 Verivox 估計，年用 <strong>4,000 度</strong>的家庭若業者全額轉嫁，<strong>每月約省 7.75 €、一年約 93 €</strong>。能源與水業公會 <strong>BDEW</strong> 已表示會把減稅轉給客戶。</p>
+<p><strong>決議內容：</strong>聯盟黨與 SPD 高層 <strong>11 月 17 日晚間至 18 日凌晨</strong>在聯合委員會協商八個多小時，結論是 <strong>2027 年 1 月 1 日至 12 月 31 日</strong>，把<strong>電力稅（Stromsteuer）</strong>降到歐盟允許的最低標準：私人家庭與目前尚未享有優惠的企業，稅率從 <strong>2.05 ct/kWh 降到 0.1 ct/kWh</strong>。製造業與農林業早在 2026 年就已適用低稅率，這次等於把優惠擴大到所有用電戶。據報導，這是總理 Merz 力推的結果；聯合政府 2025 年組閣時曾承諾為所有人降電力稅，後來因財源不足只先給企業，被批評「跳票」。</p>
+<p><strong>能省多少：</strong>依《每日鏡報》（Tagesspiegel）試算，家庭省 1.95 ct/kWh，<strong>含 19% 加值稅約省 2.3 ct/kWh</strong>；年用 2,500 度的兩人家庭一年約省 60 €。比價平台 Verivox 估計，年用 <strong>4,000 度</strong>的家庭若業者全額轉嫁，<strong>每月約省 7.75 €、一年約 93 €</strong>。能源與水業公會 <strong>BDEW</strong> 已表示會把減稅轉給客戶。</p>
+<p><strong>換算成比例：</strong>電力稅是<strong>按度數課固定金額</strong>（從量稅），不是照電價抽百分比，所以不論電價高低，每度省下的都是同樣的 2.3 ct/kWh。依 BDEW 2026 年 10 月的電價分析，家庭平均電價為 <strong>37.3 ct/kWh</strong>（以年用 3,500 度計，已含基本費攤提），換算下來<strong>電費約少 6%</strong>（2.3 ÷ 37.3 ≈ 6.2%）；年用 3,500 度的家庭，一年電費約 1,306 €，可省約 81 €。電價越高的方案，降幅比例越小，例如基本供應（Grundversorgung）每度約 40 ct/kWh 的話約少 5.7%；想知道自己能省幾 %，用 2.3 除以帳單上的每度單價（Arbeitspreis 加上基本費攤提）即可。</p>
 <p><strong>錢從哪來：</strong>降稅造成 2027 年約 <strong>54 億歐元</strong>的稅收缺口，執政聯盟打算以再生能源補助帳戶（<strong>EEG 帳戶</strong>）預期的盈餘支應；若不夠，再另訂撙節方案。聯邦議院預算委員會下週將召開特別會議。執政聯盟表示希望長期降稅，但 <strong>2028 年以後的財源仍未定</strong>，法案也還沒送進國會。</p>
 <p><strong>油價上限同步定案：</strong>本站 <a href="#nov2-8">W45</a> 報導過的<strong>油價上限（Spritpreisdeckel）</strong>，這次決定 <strong>2027 年 1 月 1 日起</strong>實施、先試行 <strong>3 個月</strong>，可延長；內閣將在 <strong>12 月 2 日</strong>通過修正後的法案與行政命令。政府參考比利時與盧森堡的模式，以法定上限限制業者的利潤空間，而非訂死單一價格，但具體上限公式至今還沒公布。</p>
 <p><strong>各方觀點：</strong>聯邦消費者中心總會（vzbv）主席 Ramona Pop 肯定執政聯盟兌現承諾；綠黨（Grüne）黨主席 Franziska Brantner 則批評只降一年「沒有給出規劃上的確定性」，綠黨聯邦議院黨團共同主席 Britta Haßelmann 稱這是「替總理保住面子的權宜之計」；綠黨與左翼黨（Die Linke）都認為油價上限不夠，主張改向石油公司課徵超額利潤稅。SPD 預算專家 Thorsten Rudolph 稱減輕負擔是好事，但希望再大膽一點。</p>
 <p><strong>省錢提醒：</strong>減稅一年約省幾十到一百歐元；消保團體提醒，<strong>比價換約</strong>往往省得更多。許多基本供應業者明年 1 月調價，收到調價通知時可行使特別終止權改換方案。</p>
-<p class="post-sources">📚 來源：<a href="https://www.handelsblatt.com/politik/deutschland/koalitionsausschuss-stromsteuer-senkung-und-spritpreisdeckel-kommen-2027/100270780.html" target="_blank" rel="noopener noreferrer">Handelsblatt：Stromsteuer-Senkung und Spritpreisdeckel kommen 2027</a> · <a href="https://www.tagesspiegel.de/politik/strom-gunstiger-sprit-nicht-noch-teurer-wie-sich-die-einigung-der-koalition-finanziell-auswirkt-16297250.html" target="_blank" rel="noopener noreferrer">Tagesspiegel：Wer von der Einigung der Koalition finanziell profitiert</a> · <a href="https://www.t-online.de/nachrichten/deutschland/innenpolitik/id_101534002/stromsteuer-koalition-beschliesst-senkung-mit-einem-haken.html" target="_blank" rel="noopener noreferrer">t-online：Koalition beschließt Senkung – mit einem Haken</a> · <a href="https://www.t-online.de/nachrichten/deutschland/innenpolitik/id_101534526/stromsteuer-und-spritpreisdeckel-streit-in-der-koalition-trotz-einigung.html" target="_blank" rel="noopener noreferrer">t-online：Streit in der Koalition trotz Einigung</a> · <a href="https://taz.de/Einigung-im-Koalitionsausschuss/!6231102/" target="_blank" rel="noopener noreferrer">taz：Linke Tasche, rechte Tasche</a> · <a href="https://www.tagesspiegel.de/politik/keine-entlastung-bei-stromsteuer-kritiker-werfen-schwarz-rot-wortbruch-vor-13917301.html" target="_blank" rel="noopener noreferrer">Tagesspiegel：Kritiker werfen Schwarz-Rot „Wortbruch“ vor（2025）</a> · <a href="https://www.adac.de/verkehr/tanken-kraftstoff-antrieb/benzin-und-diesel/spritpreisdeckel/" target="_blank" rel="noopener noreferrer">ADAC：Spritpreisdeckel ab 2027</a></p>
+<p class="post-sources">📚 來源：<a href="https://www.handelsblatt.com/politik/deutschland/koalitionsausschuss-stromsteuer-senkung-und-spritpreisdeckel-kommen-2027/100270780.html" target="_blank" rel="noopener noreferrer">Handelsblatt：Stromsteuer-Senkung und Spritpreisdeckel kommen 2027</a> · <a href="https://www.tagesspiegel.de/politik/strom-gunstiger-sprit-nicht-noch-teurer-wie-sich-die-einigung-der-koalition-finanziell-auswirkt-16297250.html" target="_blank" rel="noopener noreferrer">Tagesspiegel：Wer von der Einigung der Koalition finanziell profitiert</a> · <a href="https://www.t-online.de/nachrichten/deutschland/innenpolitik/id_101534002/stromsteuer-koalition-beschliesst-senkung-mit-einem-haken.html" target="_blank" rel="noopener noreferrer">t-online：Koalition beschließt Senkung – mit einem Haken</a> · <a href="https://www.t-online.de/nachrichten/deutschland/innenpolitik/id_101534526/stromsteuer-und-spritpreisdeckel-streit-in-der-koalition-trotz-einigung.html" target="_blank" rel="noopener noreferrer">t-online：Streit in der Koalition trotz Einigung</a> · <a href="https://taz.de/Einigung-im-Koalitionsausschuss/!6231102/" target="_blank" rel="noopener noreferrer">taz：Linke Tasche, rechte Tasche</a> · <a href="https://www.tagesspiegel.de/politik/keine-entlastung-bei-stromsteuer-kritiker-werfen-schwarz-rot-wortbruch-vor-13917301.html" target="_blank" rel="noopener noreferrer">Tagesspiegel：Kritiker werfen Schwarz-Rot „Wortbruch“ vor（2025）</a> · <a href="https://www.adac.de/verkehr/tanken-kraftstoff-antrieb/benzin-und-diesel/spritpreisdeckel/" target="_blank" rel="noopener noreferrer">ADAC：Spritpreisdeckel ab 2027</a> · <a href="https://www.bdew.de/presse/pressemappen/strompreis/" target="_blank" rel="noopener noreferrer">BDEW：Pressematerialien Strompreis（2026 年平均家庭電價）</a></p>
 
 <img src="assets/images/2026/weekly/W47_圖卡2_定期契約延到四年.png" alt="德國聯邦內閣2026年11月18日通過勞動部長Alexander Schweitzer勞動法套案Arbeitsrechtspaket 無理由定期契約sachgrundlose Befristung上限從2年延長到4年 期限內續約次數從3次增為6次 只適用2030年12月31日前簽訂的契約 前僱禁令Anschlussverbot放寬一次 定期約可用文字形式Textform 年薪超過退休保險投保上限1.75倍約18萬歐元者解僱保護放寬 法院可判資遣Abfindung終止 約0.27%受僱者 雇主聯合會BDA Kampeter正面訊號 DGB Piel ver.di Werneke批評">
 <h3>無理由定期契約最長延到 4 年：內閣通過勞動法套案，高薪者解僱保護同步放寬</h3>

diff --git a/scripts/cardgen/make_weekly_cards.py b/scripts/cardgen/make_weekly_cards.py
@@ -2938,10 +2938,10 @@ CARDS = [
   title='2027 年電力稅降到歐盟最低',
   subtitle='執政聯盟 11/18 拍板：所有家庭與企業都適用，先限一年',
   stats=[('約 93 €', '年用 4,000 度家庭一年估省'),
-         ('54 億歐元', '2027 年稅收缺口（EEG 帳戶支應）')],
+         ('約 6%', '以平均電價估算的電費降幅')],
   bullets=[
-   ('稅率', '每度從 2.05 歐分降到 0.1 歐分；含加值稅，家庭每度約省 2.3 歐分。'),
-   ('期限', '只適用 2027 年 1 月 1 日至 12 月 31 日；政府希望長期化，但 2028 年起的財源未定。'),
+   ('稅率', '從 2.05 ct/kWh 降到 0.1 ct/kWh；按度數課固定金額，含加值稅約省 2.3 ct/kWh。'),
+   ('期限', '只適用 2027 年全年；約 54 億歐元缺口由 EEG 帳戶支應，2028 年起財源未定。'),
    ('油價上限', '同場決定 2027 年 1 月 1 日起實施、先試行 3 個月；內閣 12/2 審修正草案，上限公式仍未公布。'),
   ],
   takeaway=('省錢提醒', '能源業公會 BDEW 表示會把減稅轉給客戶；消保團體提醒，換電力方案往往比減稅省得更多。'),
